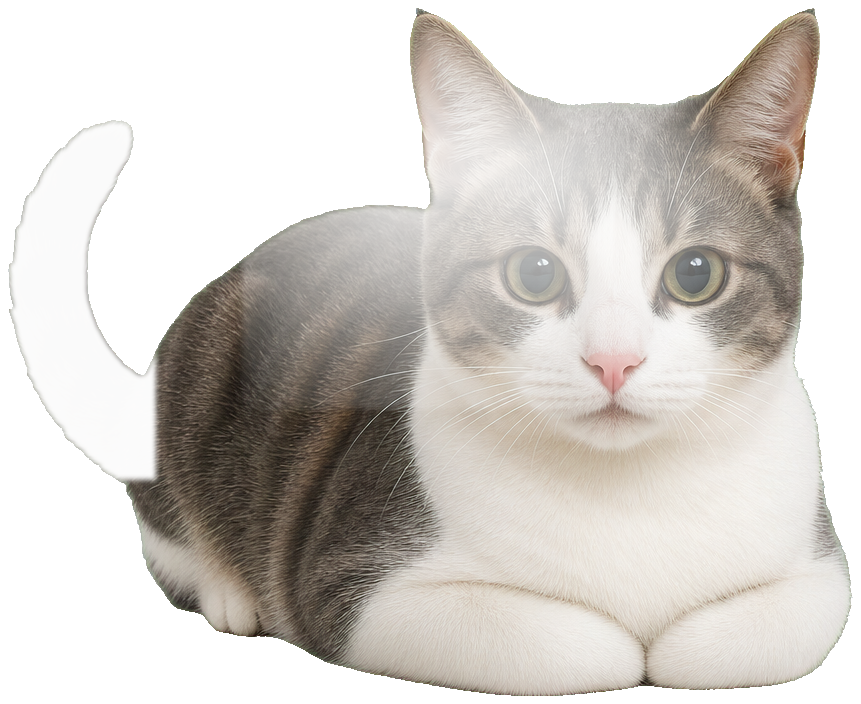
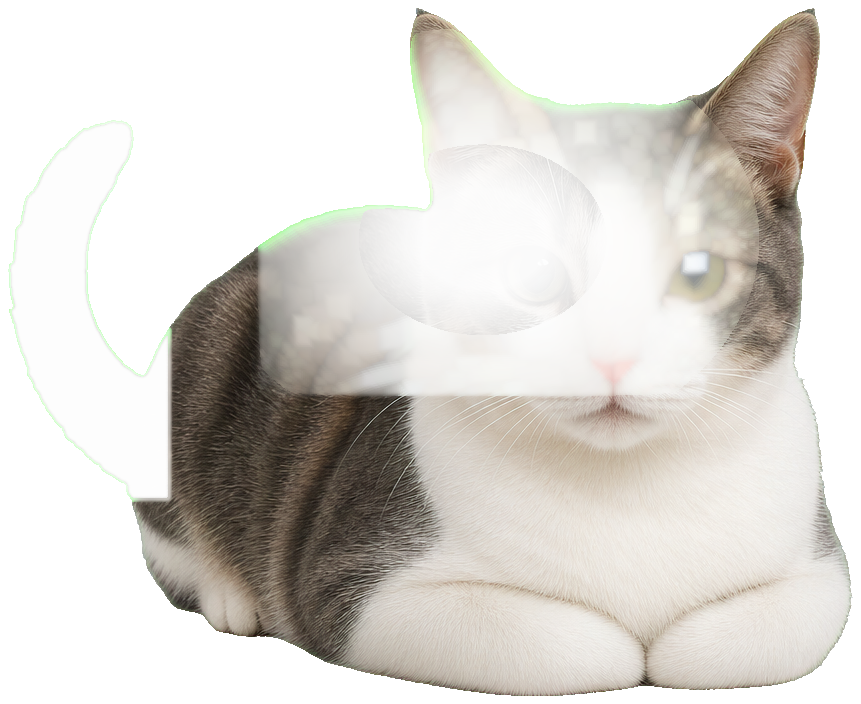
fix: 尾巴改为持续明显摇摆
身体层去掉静态尾巴，仅绘制可旋转尾层；加大摆动幅度并提高到约 60fps 刷新。

Changed region(s): [[0.2718, 0.0312, 0.8757, 0.5938], [0.1208, 0.4688, 0.2114, 0.7188], [0.0604, 0.1875, 0.0906, 0.2188]]

diff --git a/desktop-pet/main.py b/desktop-pet/main.py
@@ -111,7 +111,7 @@ class DesktopPet(QWidget):
         self._anim_timer.timeout.connect(self._on_anim_tick)
 
         self._idle_timer = QTimer(self)
-        self._idle_timer.setInterval(33)  # ~30fps 待机足够顺滑
+        self._idle_timer.setInterval(16)  # ~60fps，尾巴持续摆动更跟手
         self._idle_timer.timeout.connect(self._on_idle_tick)
         self._idle_timer.start()
 
@@ -241,13 +241,13 @@ class DesktopPet(QWidget):
         painter.end()
 
     def _paint_pet_layers(self, painter: QPainter, local_rect: QRect) -> None:
-        """在本地坐标系绘制：完整底图 → 摇尾巴 → 转头（叠加以避免接缝）。"""
+        """身体打底（无头尾）→ 持续摇尾巴 → 转头。"""
         origin = QPointF(local_rect.topLeft())
 
-        # 1) 完整角色打底，避免分层抠图产生白边/空洞
-        painter.drawPixmap(local_rect.topLeft(), self._pet_pixmap)
+        # 1) 无头尾的身体：静态尾巴不会挡住动画层
+        painter.drawPixmap(local_rect.topLeft(), self._body_pix)
 
-        # 2) 尾巴：绕附着点旋转叠在上方
+        # 2) 尾巴：绕附着点持续摇摆
         painter.save()
         pivot = origin + self._tail_pivot
         painter.translate(pivot)
@@ -256,7 +256,7 @@ class DesktopPet(QWidget):
         painter.drawPixmap(local_rect.topLeft(), self._tail_pix)
         painter.restore()
 
-        # 3) 头部：轻微旋转 + 位移叠在上方
+        # 3) 头部：轻微转头 / 点头
         painter.save()
         pivot = origin + self._head_pivot
         painter.translate(pivot)
@@ -311,23 +311,21 @@ class DesktopPet(QWidget):
         t = time.perf_counter() - self._idle_t0
         boost = self._idle_boost
 
-        # 尾巴：主频 + 轻微二次谐波，看起来更像真猫摇尾巴
+        # 尾巴一直摇：幅度够大，肉眼随时能看出在动
         self._tail_angle = (
-            math.sin(t * 3.2 * boost) * 16.0
-            + math.sin(t * 5.1 * boost + 0.6) * 4.0
+            math.sin(t * 4.4 * boost) * 28.0
+            + math.sin(t * 7.0 * boost + 0.8) * 8.0
         )
 
-        # 头部：慢速左右轻转 + 轻微点头/侧移
+        # 头部持续轻转 / 点头
         self._head_angle = (
-            math.sin(t * 1.15 * boost + 0.4) * 5.5
-            + math.sin(t * 0.55 + 1.2) * 2.0
+            math.sin(t * 1.35 * boost + 0.4) * 7.0
+            + math.sin(t * 0.65 + 1.2) * 2.5
         )
-        self._head_bob_x = math.sin(t * 0.9 * boost) * (2.2 * self._scale)
-        self._head_bob_y = math.sin(t * 1.7 * boost + 0.8) * (1.4 * self._scale)
+        self._head_bob_x = math.sin(t * 1.05 * boost) * (2.8 * self._scale)
+        self._head_bob_y = math.sin(t * 1.9 * boost + 0.8) * (1.8 * self._scale)
 
-        # 互动动画期间也保持刷新；无互动时只靠 idle 刷新
-        if not self._anim_timer.isActive():
-            self.update()
+        self.update()
 
     def _reset_idle_boost(self) -> None:
         self._idle_boost = 1.0